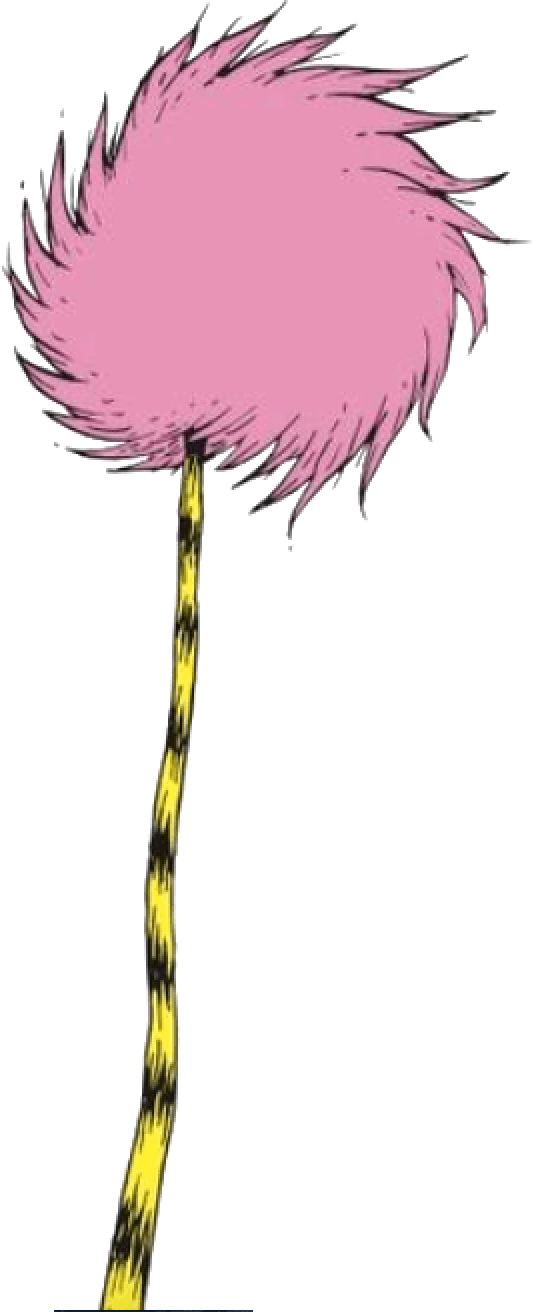
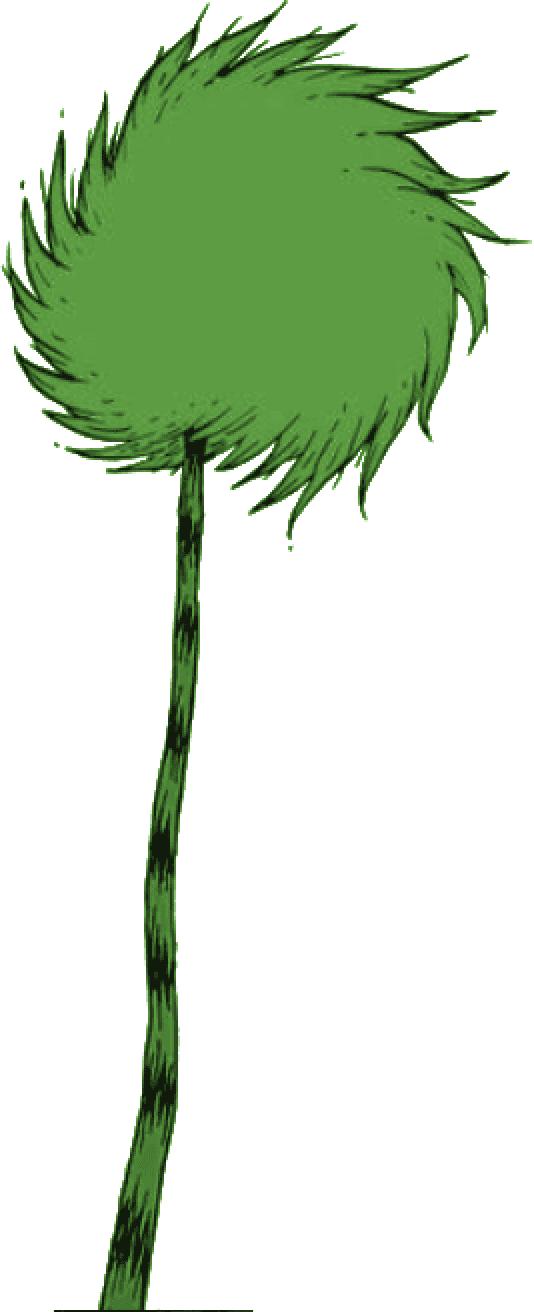
it's gotta be green. and apparently without a drop-shadow, cause that just fucks shit up for no known reason

Changed region(s): [[0.0, 0.0, 0.9888, 1.0]]

diff --git a/src/js/jungle.js b/src/js/jungle.js
@@ -8,7 +8,7 @@ import assTruffulaTree04 from 'url:/src/img/jungle/TruffulaTree-4.png'
 import assWildTree01 from 'url:/src/img/jungle/WildTree-1.png'
 import assWildTree02 from 'url:/src/img/jungle/WildTree-2.png'
 import g from './glob'
-import { padStr, randOnum } from './utils'
+import { padStr, randOnum, shuffleArray } from './utils'
 
 const assJungleLayers = [
   assWildTree01,
@@ -54,13 +54,20 @@ const setJungleLayer = (ajl, lyr) => {
   g.el.jungL.appendChild(jungLayerL)
   g.el.jungR.appendChild(jungLayerR)
   const startPos = {
-    translateX: jungleJumble ? '-125%' : '-100%',
+    translateX: '-100%',
     // zIndex: lyr,
   }
-  if (jungleJumble) startPos.translateZ = -randOnum(3, 15) / 100
+  if (jungleJumble) {
+    const recedeByPx = g.jungle.lyr.shift()
+    const adjustFraction = ((assJungleLayers.length + recedeByPx) / assJungleLayers.length)
+    startPos.translateZ = recedeByPx / 5
+    startPos.filter = `brightness(${adjustFraction * 100}%)` // drop-shadow(0 4.2px 4.2px rgba(0,66,0,0.76)) 
+    startPos.opacity = adjustFraction
+    console.log(startPos)
+  }
   gsap.set(`.${jungLayerClass}`, startPos)
   gsap.to(`.${jungLayerClass}`, {
-    delay: lyr ** 2 / 2,
+    delay: lyr ** 2 * 0.76,
     duration: !jungleJumble ? 180 : randOnum(60, 120),
     ease: 'none',
     onRepeat: function () {
@@ -72,6 +79,8 @@ const setJungleLayer = (ajl, lyr) => {
 }
 
 const setJungleLayers = () => {
+  g.jungle.lyr = Array.from({ length: assJungleLayers.length }, (_, i) => -(i + 1))
+  g.jungle.lyr = shuffleArray(g.jungle.lyr)
   assJungleLayers.forEach((ajl, lyr) => {
     setJungleLayer(ajl, lyr + 1)
   })
@@ -83,6 +92,7 @@ const setJungleMotion = () => {
 }
 
 const setJungle = () => {
+  g.jungle = {}
   gsap.set('.jungBackDrop, .jungScreen, .jungSagan', {
     height: g.main.h * 1.25,
   })

diff --git a/src/scss/jungle.scss b/src/scss/jungle.scss
@@ -27,15 +27,18 @@ div#jungle {
       top: -33%;
       transform: rotateY(36deg);
     }
-    div.jungBackDrop1 {
-      background: linear-gradient(0deg, rgba(19,56,25,1) 10%, rgba(253,187,45,1) 32%, rgba(45,253,249,1) 88%);
+    div.jungBackDrop {
       opacity: 0.64;
-      z-index: -2;
+      div.jungBackDrop1 {
+        background: linear-gradient(0deg, rgba(19,56,25,1) 10%, rgba(253,187,45,1) 32%, rgba(45,253,249,1) 88%);
+        z-index: -2;
+      }
+      div.jungBackDrop2 {
+        background: linear-gradient(0deg, rgba(45,253,249,0) 0%, rgba(45,253,249,0.64) 88%);
+        z-index: -1;
+      }
     }
-    div.jungBackDrop2 {
-      background: linear-gradient(0deg, rgba(45,253,249,0) 0%, rgba(45,253,249,0.64) 88%);
-      z-index: -1;
-    }
+
     div.jungSagan div.saganIpsum {
       color: rgba(45,253,249,1);
       width: 102%;
@@ -49,10 +52,10 @@ div#jungle {
       }
     }
     div.jungScreen {
-      transform: rotateY(36deg) translateZ(0.1px);
+      // transform: rotateY(36deg) translateZ(0.1px);
       &.jungR {
         left: 50%;
-        transform: rotateY(36deg) translateZ(0.1px) scaleX(-1);
+        // transform: rotateY(36deg) translateZ(0.1px) scaleX(-1);
       }
       .jungLayer {
         transform-origin: 100% 100%;
